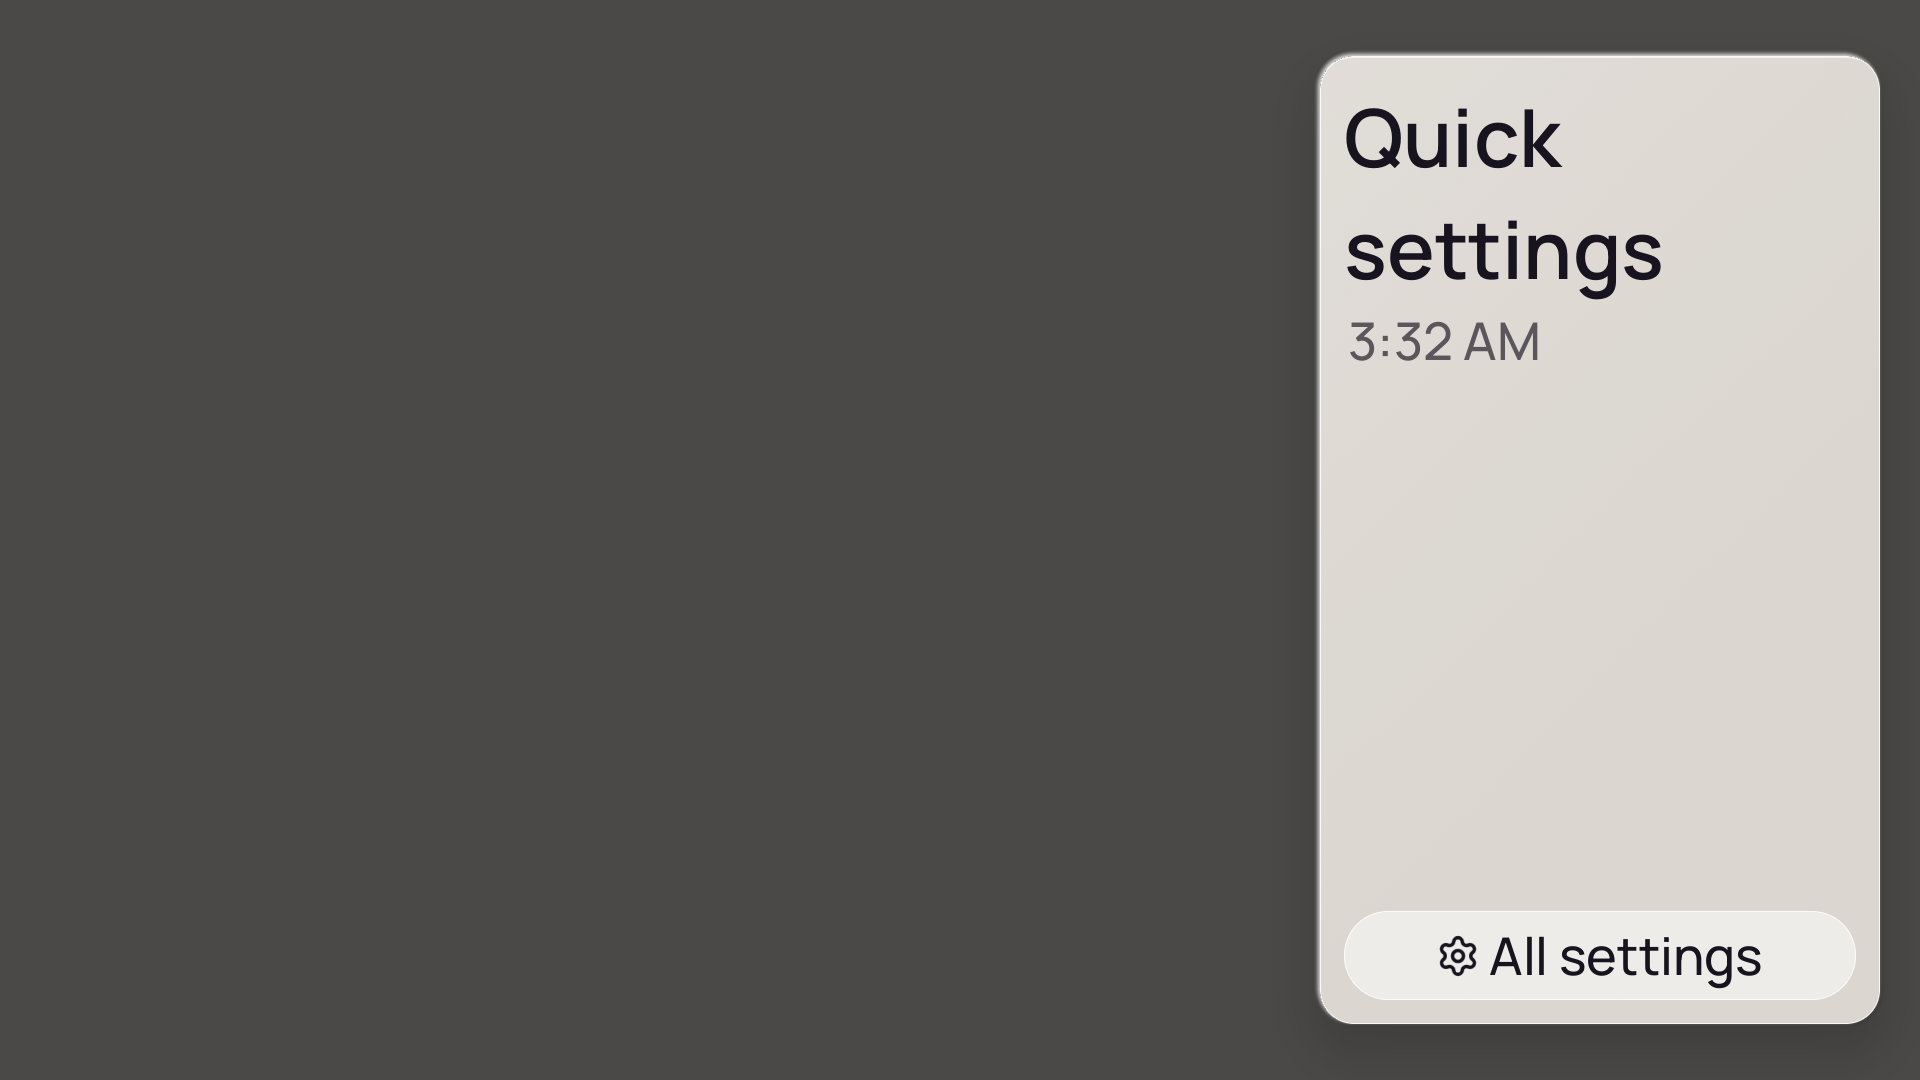
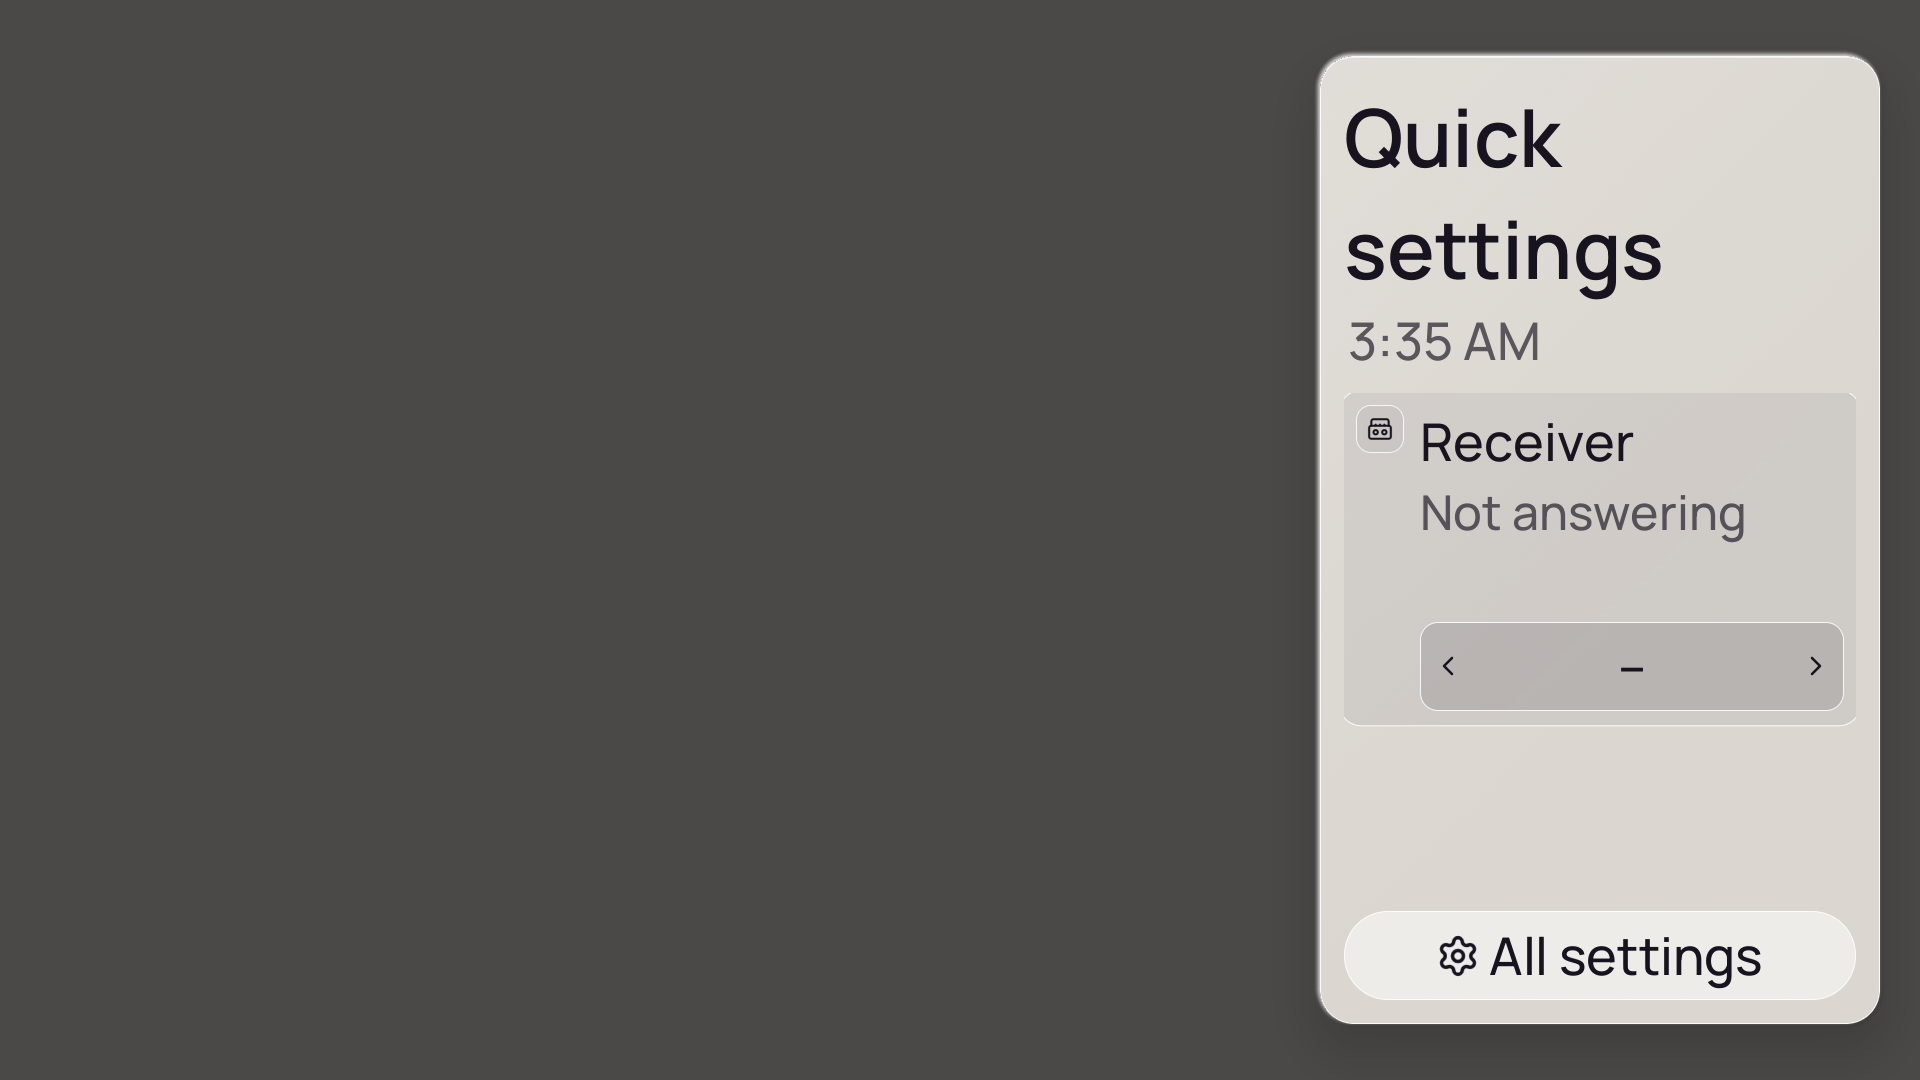
Rust panels: the rows a scroll brings into the quick panel's window are drawn; the renders again

diff --git a/rustui/ui/src/panels/quick_surface.rs b/rustui/ui/src/panels/quick_surface.rs
@@ -935,7 +935,7 @@ impl QuickSurface {
         }
         // the list moves to show the focused row whole
         match &view.focus {
-            Some(Focus::Row(i)) => self.reveal_row(engine, *i, now_ms),
+            Some(Focus::Row(i)) => self.reveal_row(engine, *i, now_ms, disabled),
             Some(Focus::EditRow(i)) => self.reveal_edit(engine, *i),
             Some(Focus::EditAdd) => {
                 let n = self.built.as_ref().and_then(|b| b.edit.as_ref()).map_or(0, |e| e.rows.len());
@@ -957,7 +957,7 @@ impl QuickSurface {
     }
 
     /// Moves the list so that the focused row shows whole, on the focus's spring, and puts the registry's frames where the rows will be.
-    fn reveal_row(&mut self, engine: &mut Engine, i: usize, now_ms: u64) {
+    fn reveal_row(&mut self, engine: &mut Engine, i: usize, now_ms: u64, disabled: f32) {
         let Some(list) = self.built.as_mut().and_then(|b| b.list.as_mut()) else { return };
         let Some(r) = list.rows.get(i) else { return };
         let target = list.scroll.reveal(r.top, r.layout.h, &list.tops);
@@ -971,7 +971,11 @@ impl QuickSurface {
             let was = list.scroll.fits(r.top, r.layout.h, old);
             let will = list.scroll.fits(r.top, r.layout.h, target);
             // both stay drawn while it moves; the ones that will not fit go when it has landed
+            let shown = r.visible;
             r.visible = was || will;
+            if r.visible != shown {
+                set_cell(&r.cell, r.visible, r.enabled, disabled);
+            }
             engine.focus.place(r.id, if will { Frame::new(list.x0, window.y + r.top - target, window.w, r.layout.h) } else { zero() });
         }
         list.settle_due = Some(now_ms + SETTLE_MS);
